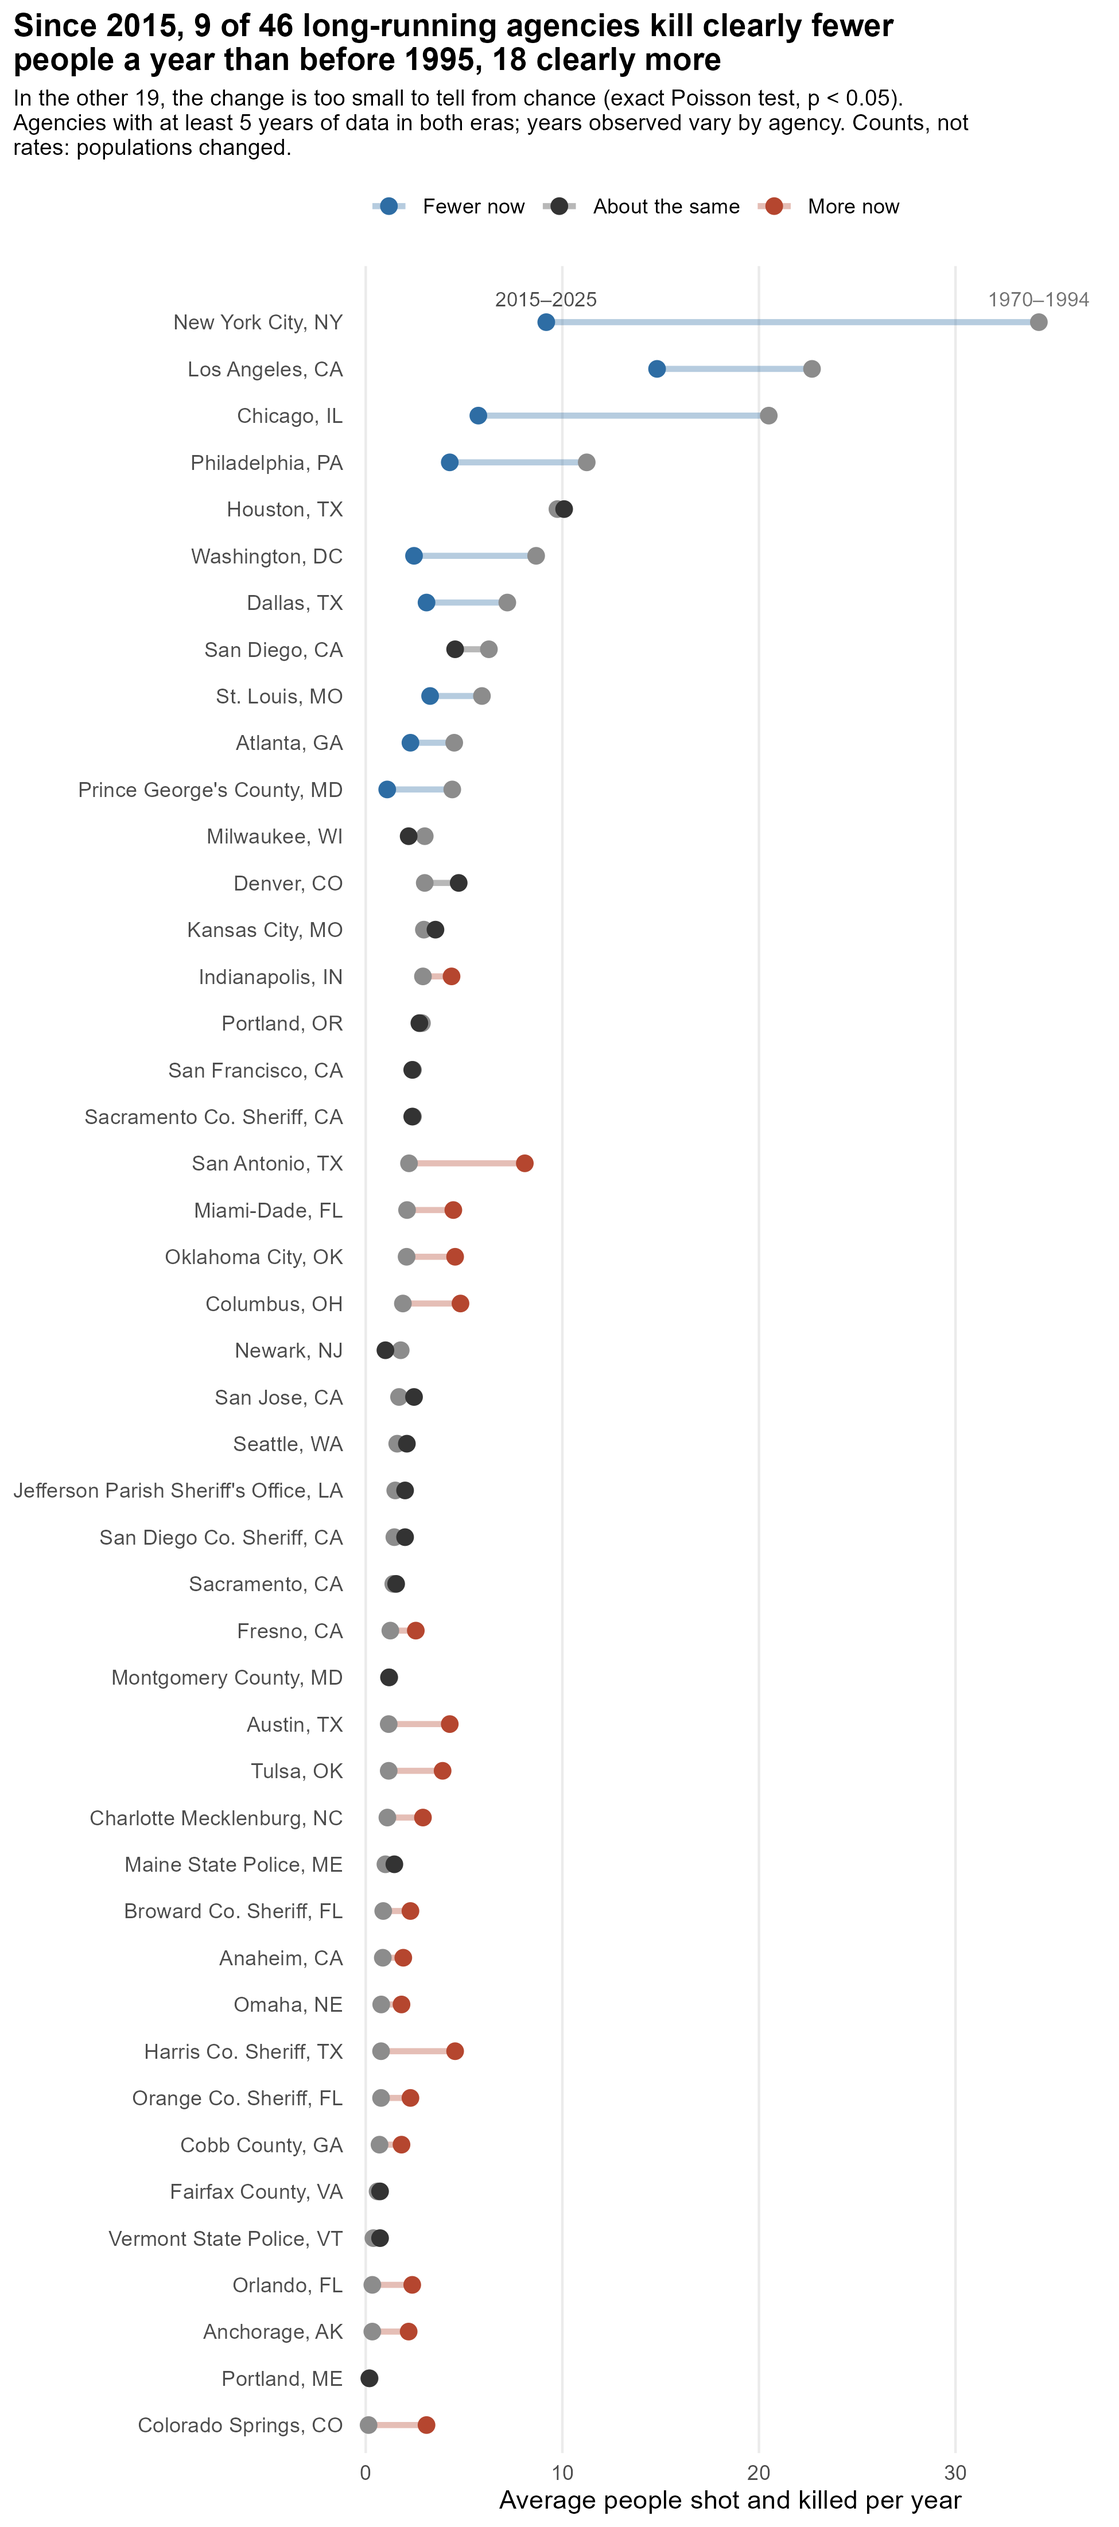
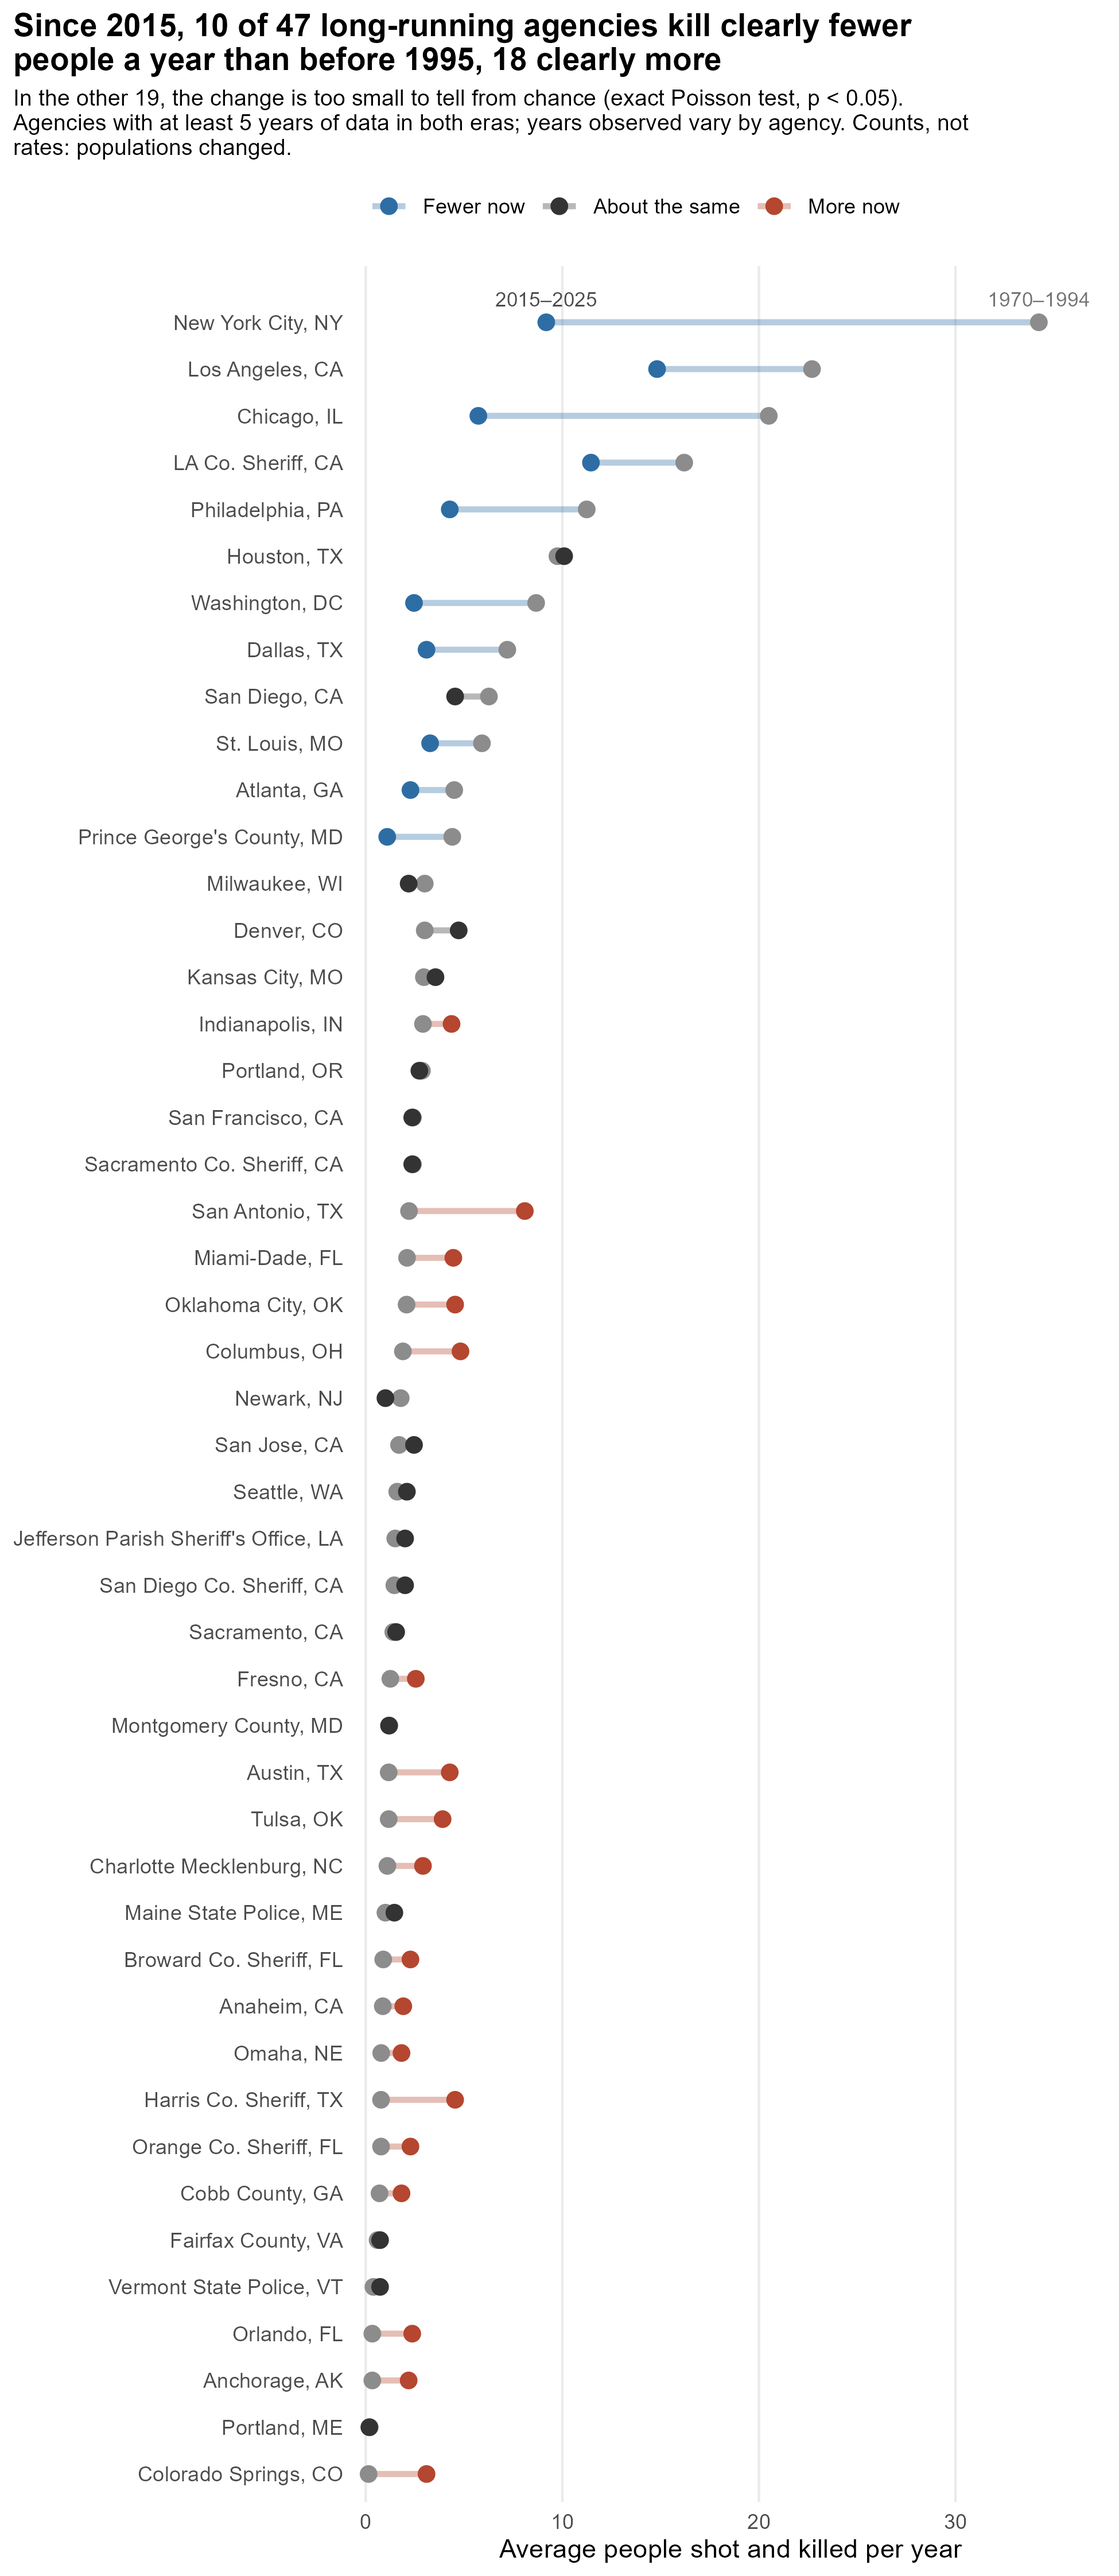
Enter LA County Sheriff 1985-Jul 1990 as a period total (protocol deviation) (#51)
* Enter LA County Sheriff 1985-Jul 1990 as a period total (protocol deviation)

The LA Times is not in NewsBank, and the Daily News found about 29% of FE
LASD deaths in a later window, so LASD cannot be rebuilt year by year.
The Daily News study of 7 Oct 1990 reviewed every on-duty deputy shooting
from 1 Jan 1985 to 27 Jul 1990: 75 people killed. JN approved entering it
as a period total.

- data/historical/period_totals.csv: new file for multi-year totals with
  no yearly breakdown (source, quote, note).
- 07: period totals join the era data as one row with exposure = span in
  years (agency-years have exposure 1). The era model uses a log-exposure
  offset; long-panel eligibility and then-vs-now per-year rates use
  exposure. The year-by-year index never uses period totals. A check
  refuses any period that overlaps the agency's existing years.

LASD now qualifies (early: 155 deaths / 9.57 yrs incl. Bobb 1991-94;
recent 11.5/yr; "fewer now"). Long panel 47, era ratio 0.757 (0.545-1.051).

Claude-Session: https://claude.ai/code/session_01HYdS38gF31phjBBJgbZerc

* Regenerate then-vs-now and trend-index figures with the LASD period total

Claude-Session: https://claude.ai/code/session_01HYdS38gF31phjBBJgbZerc

---------

diff --git a/README.md b/README.md
@@ -200,12 +200,14 @@ The method, a note on every agency, and the checks against each paper's own coun
 | Fairfax County PD (VA) | *The Washington Times* | 1990–1994 | 3 | 3 |
 | Montgomery County PD (MD) | *The Washington Times* | 1990–1994 | 6 | 5 |
 | Prince George's County PD (MD) | *The Washington Times* (paper-stated totals 1992–93) | 1990–1994 | 22 | 28 |
+| LA County Sheriff (period total) | *Daily News of Los Angeles* (Oct. 7, 1990 study) | Jan 1985 – Jul 1990 | 75 | 42 (1985–90) |
 
 
 ## Caveats
 
 1. **Any mistakes are mine.** I did my best to make sure the data permit apples-to-apples comparisons. Each number *should* represent a person fatally shot by an on-duty officer. A few exceptions are known:
    - **Cincinnati before 2015 and all of LVMPD** count fatal and nonfatal shootings together (animal shootings excluded). That's why Cincinnati is the big outlier in [`output/figures/source_agreement.png`](output/figures/source_agreement.png).
+   - **LA County Sheriff, Jan 1985 – Jul 1990,** is a period total, not yearly counts: 75 people killed in on-duty deputy shootings, from a *Daily News* study of every such shooting in that span (Oct. 7, 1990). It enters only the then-vs-now comparison, weighted by its 5.57 years of exposure, and is not used in the year-by-year index. See `data/historical/period_totals.csv`.
    - **Athens-Clarke 2019:** the hand-built count (5) equals WaPo's police department and sheriff's office combined. The AJC data may combine the two agencies.
 2. **Blank is not zero** in the hand-built series. A blank means I have no data for that agency-year.
 3. **How the national sources are counted:**
